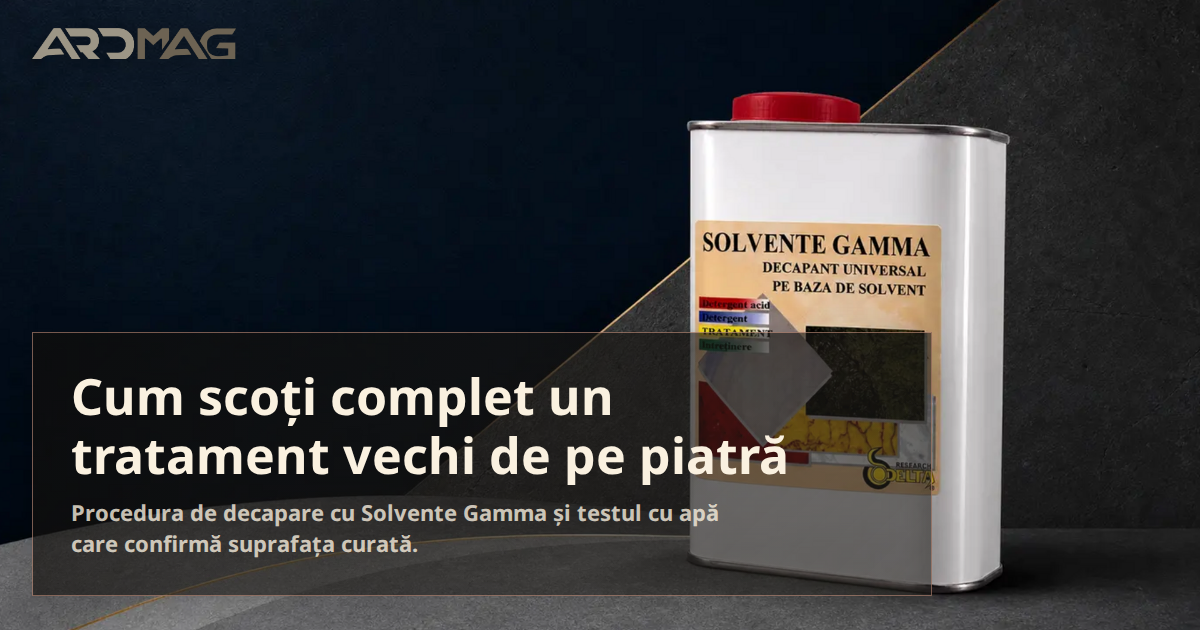
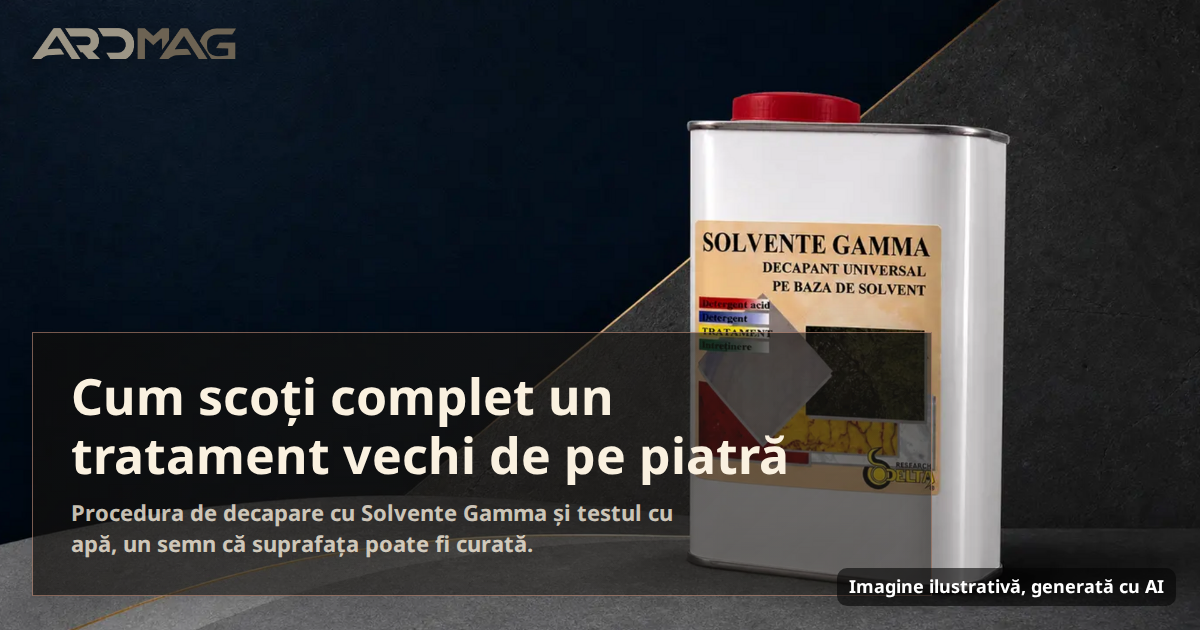
content(blog): publica ghidul de indepartare a tratamentului vechi

Changed region(s): [[0.6783, 0.8746, 0.9867, 0.9651], [0.0617, 0.8444, 0.4625, 0.9048], [0.555, 0.7841, 0.6167, 0.8444]]

diff --git a/backend-storefront/content/blog/indepartare-tratament-vechi-inainte-de-retratare.md b/backend-storefront/content/blog/indepartare-tratament-vechi-inainte-de-retratare.md
@@ -1,0 +1,50 @@
+---
+title: "Cum îndepărtezi complet un tratament vechi înainte de a aplica altul"
+description: "Procedura de decapare cu Solvente Gamma: ce tratamente vechi îndepărtează, cum tratezi o zonă parțial consumată și cum verifici că suprafața e curată înainte de o nouă aplicare."
+kicker: "Ghid tehnic · Delta Research"
+status: "published"
+review: "PASS"
+publishedAt: "2026-08-24"
+updatedAt: "2026-08-26"
+author: "Echipa ardmag"
+tags: ["delta research", "solvente gamma", "decapare", "tratamente", "piatra naturala", "ghid"]
+heroImage: "/blog/indepartare-tratament-vechi-inainte-de-retratare/hero.webp"
+ogImage: "/assets/articles/indepartare-tratament-vechi-inainte-de-retratare/og.png"
+---
+
+Un tratament nou nu se aplică peste unul vechi. Am spus asta deja în [ghidul de aplicare a tratamentelor](/blog/aplicare-tratamente-piatra-naturala): dacă efectul obținut nu corespunde, tratamentul vechi trebuie îndepărtat complet înainte de orice altă aplicare. Ce lipsea era procedura. Cu ce decapezi, cât timp lucrezi, și mai ales cum știi că ai scos tot, nu doar suprafața.
+
+## Ce înseamnă "tratament vechi" pe piatra pe care lucrezi
+
+Ceară, lac, un tratament acrilic sau siliconic aplicat greșit, acumulare de sigilant peste sigilant. În practica noastră, astfel de reziduuri pot împiedica aplicarea uniformă a produsului nou. Pentru gama noastră Delta Research, recomandăm Solvente Gamma: decapant universal pe bază de solvent, cu evaporare lentă, pentru marmură, granit și piatră naturală. Este disponibil în ambalaje de 1 și 5 litri.
+
+Nu e un produs care scoate orice de pe orice piatră. Fișa tehnică îl indică pentru îndepărtarea excesului de tratamente antipată, a tratamentelor pe bază de rășini acrilice sau siliconice aplicate greșit, precum și a cerii, lacului și acumulărilor de sigilant. Dacă lucrezi cu un tratament dintr-o altă gamă, necunoscut sau foarte vechi, verifică pe o zonă mică înainte să tratezi toată suprafața ca fiind rezolvată.
+
+## Procedura de decapare
+
+Aplică produsul generos, cu o cârpă sau prin pulverizare, pe toată zona de curățat. Lasă-l să acționeze 5-10 minute, apoi freacă suprafața manual sau cu un pad de nailon negru, astfel încât tratamentul dizolvat să se desprindă efectiv de piatră. Pe un strat gros sau vechi, lucrează metodic. Ca recomandare practică ARDmag, repetă operația dacă mai rămân zone cu absorbție diferită.
+
+După frecare, adaugă apă din abundență pentru a amesteca și mobiliza reziduurile, apoi colectează complet lichidul cu un aspirator umed. Nu lăsa amestecul rezultat să se usuce din nou pe piatră. Randamentul orientativ din fișa tehnică este de 3-5 metri pătrați la litru și poate ajunge până la 10 metri pătrați la litru pe suprafețe puțin absorbante.
+
+E un solvent, nu apă cu detergent. Citește eticheta produsului, fișa tehnică și fișa de securitate a lotului înainte de utilizare și urmează instrucțiunile de siguranță de acolo. Protejează geamurile, elementele metalice, suprafețele vopsite și plantele din apropiere înainte de aplicare.
+
+## Când tratamentul vechi e consumat doar pe alocuri
+
+Recomandăm să nu decapezi doar petele izolate. O suprafață cu trafic inegal se uzează neuniform, deci înainte să decizi cât de mult tratezi, testează cu apă în mai multe puncte, nu doar unde vezi cu ochiul liber că protecția a scăzut. Dacă schimbi tratamentul sau produsul, recomandăm să tratezi întreaga zonă cu reziduu vizibil, nu doar petele consumate. La decaparea parțială pe zone mici, locurile decapate pot primi noul tratament diferit față de cele unde a mai rămas ceva din vechiul strat, iar rezultatul poate ieși pătat.
+
+## Cum verifici că suprafața e pregătită
+
+Fișa tehnică nu definește un test de verificare după decapare. Ca verificare orientativă ARDmag, nu ca instrucțiune din fișa tehnică, torni puțină apă și urmărești comportamentul. Dacă apa se absoarbe rapid și uniform pe toată zona tratată, e un semn bun că reziduul vechi a fost îndepărtat, deși testul nu dovedește eliminarea tuturor tipurilor de reziduu. Dacă rămân puncte unde apa stă în picătură lângă zone unde se absoarbe imediat, este un semn că zona poate avea încă reziduu. Verific-o local înainte să continui.
+
+## Ce urmează
+
+Suprafața trebuie să se usuce complet înainte de un nou tratament, la fel cum cerem și în [ghidul de aplicare](/blog/aplicare-tratamente-piatra-naturala). Fișa tehnică menționează 10-15 zile pentru uscarea completă a plăcilor, a patului de adeziv și a rosturilor, dar acest interval nu trebuie tratat ca o regulă universală după orice decapare. Verifică fișa tehnică a produsului pe care îl aplici ulterior și respectă termenul exact aplicabil situației tale. După ce suprafața e uscată, urmează pregătirea standard: detergent special, test de absorbție pe zonă mică, aplicare în unul sau două straturi, cu al doilea perpendicular pe primul.
+
+Pentru cerurile, lacurile sau sigilanții pe care nu ești sigur că Solvente Gamma le scoate complet, gama noastră de [soluții pentru piatră](/categories/solutii-pentru-piatra) are variante pentru fiecare tip de suprafață și efect dorit.
+
+## Surse și referințe
+
+- Delta Research, Solvente Gamma, [fișa tehnică](https://deltaresearch.it/product.php?lb=it&id=51)
+- Delta Research, Solvente Gamma, [fișa tehnică](https://deltaresearch.it/product.php?lb=en&id=51)
+- [Regulile de aplicare a tratamentelor pe piatră naturală](/blog/aplicare-tratamente-piatra-naturala)
+- [Testul cu apă pentru verificarea protecției](/blog/repetare-tratament-piatra-naturala)
